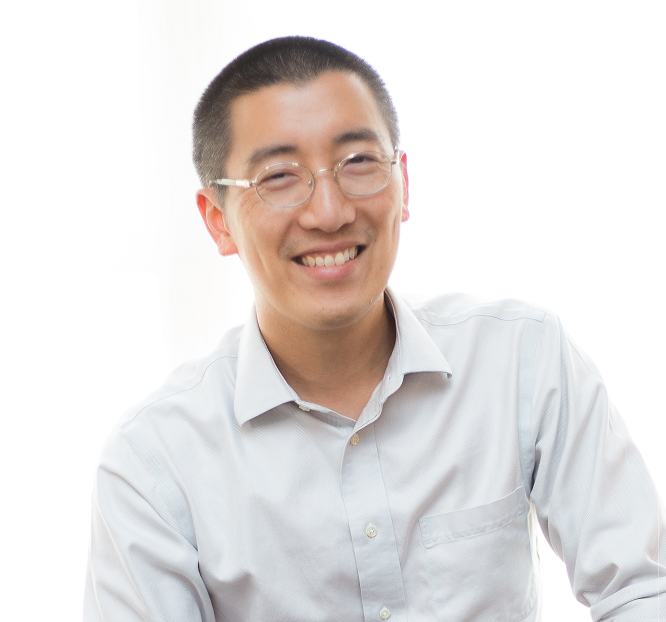
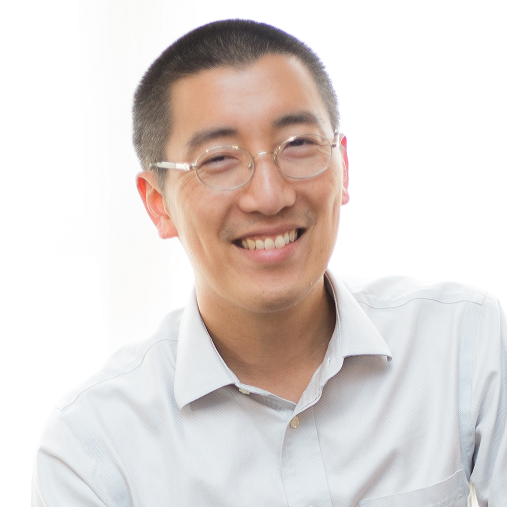
overhaul
all the changes to make this brad-ified

diff --git a/_includes/author.html b/_includes/author.html
@@ -23,7 +23,7 @@
                 ><span class="icon-twitter">Tweet</span>
             </a>
 
-            <a
+            <!-- <a
                 class="facebook"
                 href="javascript:void(0)"
                 onclick="window.open('https://facebook.com/sharer/sharer.php?u='+encodeURIComponent(location.href), 'facebook-share-dialog', 'width=626,height=436'); return false;"
@@ -31,7 +31,7 @@
                 <svg class="icon icon-facebook">
                     <use xlink:href="#icon-facebook"></use></svg
                 ><span class="icon-facebook-rect">Share</span>
-            </a>
+            </a> -->
 
             <!-- <a class="linkedin" href="https://www.linkedin.com/shareArticle?mini=true&amp;url={{ site.url }}{{ page.url }}&amp;title={{ page.title }}&amp;summary={{ page.description }}&amp;source={{ site.url }}" target="_blank">
                 <svg class="icon icon-linkedin"><use xlink:href="#icon-linkedin"></use></svg><span class="icon-linkedin">Share</span>

diff --git a/_includes/footer.html b/_includes/footer.html
@@ -1,15 +1,9 @@
 <footer class="footer-main">
     {{ site.name }} © {{ site.time | date: '%Y' }}
 
-    <a class="link" href="{{ site.url }}/feed.xml" target="_blank">
+    <!-- <a class="link" href="{{ site.url }}/feed.xml" target="_blank">
         <svg class="icon icon-rss">
             <use xlink:href="#icon-rss"></use>
         </svg>
-    </a>
-
-    <p class="extra">
-        <a class="link" href="https://github.com/sergiokopplin/indigo">Indigo theme</a>
-        by
-        <a class="link" href="https://github.com/sergiokopplin/indigo">Kopplin</a>
-    </p>
+    </a> -->
 </footer>

diff --git a/_includes/social-links.html b/_includes/social-links.html
@@ -53,12 +53,6 @@
         </a>
     {% endif %}
 
-    {% if site.github %}
-        <a class="link" data-title="github.com/{{ site.github }}" href="https://github.com/{{ site.github }}" target="_blank">
-            <svg class="icon icon-github"><use xlink:href="#icon-github"></use></svg>
-        </a>
-    {% endif %}
-
     {% if site.gitlab %}
         <a class="link" data-title="gitlab.com/{{ site.gitlab }}" href="https://gitlab.com/{{ site.gitlab }}" target="_blank">
             <svg class="icon icon-gitlab"><use xlink:href="#icon-gitlab"></use></svg>

diff --git a/_sass/base/variables.sass b/_sass/base/variables.sass
@@ -3,8 +3,8 @@ $fontMonospace: "Consolas", Liberation Mono, Menlo, Courier, monospace
 
 $alpha: #666
 $beta: #222
-$gama: #aaa
-$delta: #4b0082
+$gama: #888
+$delta: #05A
 $epsilon: #ededed
 
 $mobile: "only screen and (max-width: 400px)"

diff --git a/_sass/pages/tags.sass b/_sass/pages/tags.sass
@@ -32,7 +32,7 @@
         border-radius: 3px
         font-size: 1.3rem
         background: $epsilon
-        color: $alpha
+        color: $beta
         letter-spacing: 1px
         margin: 0 0.5rem 1rem
         text-decoration: none

diff --git a/_sass/pages/post.sass b/_sass/pages/post.sass
@@ -26,7 +26,7 @@
         border-radius: 3px
         font-size: 1.1rem
         background: $epsilon
-        color: $alpha
+        color: $beta
         letter-spacing: 1px
         margin: 3px 1px
         text-decoration: none

diff --git a/_sass/components/header.sass b/_sass/components/header.sass
@@ -20,6 +20,9 @@
     > .title
         font-size: 4rem
         margin: 0 0 13px
+        font-family: 'Kreon'
+        letter-spacing: 2px 
+        font-weight: 500
 
     > .description
         font-size: 1.85rem

diff --git a/_includes/style.scss b/_includes/style.scss
@@ -4,6 +4,7 @@
 @import "base/syntax";
 @import "base/general";
 @import "base/helpers";
+@import "base/fonts";
 
 @import "pages/home-blog-projects";
 @import "pages/page";

diff --git a/_sass/base/fonts.sass b/_sass/base/fonts.sass
@@ -1,0 +1,1 @@
+@import url('https://fonts.googleapis.com/css2?family=Kreon&display=swap')

diff --git a/about.md b/about.md
@@ -2,45 +2,23 @@
 title: About
 layout: page
 ---
-![Profile Image]({% if site.external-image %}{{ site.picture }}{% else %}{{ site.url }}/{{ site.picture }}{% endif %})
+![Profile Image]({% if site.external-image %}{{ site.alt_picture }}{% else %}{{ site.url }}/{{ site.alt_picture }}{% endif %})
 
-<p>Lorem Lorem ipsum dolor sit amet, consectetur adipisicing elit, sed do eiusmod
-tempor incididunt ut labore et dolore magna aliqua. Ut enim ad minim veniam,
-quis nostrud exercitation ullamco laboris nisi ut aliquip ex ea commodo
-consequat. Duis aute irure dolor in reprehenderit in voluptate velit esse
-cillum dolore eu fugiat nulla pariatur. Excepteur sint occaecat cupidatat non
-proident, sunt in culpa qui officia deserunt mollit anim id est laborum.</p>
+<p>Brad is a Certified Public Accountant and civic leader in Huntsville, AL. He recieved his B.S.B.A. in accounting from Auburn Univesity and currently practices as a CPA with <a href="https://brandblackwell.com/">Brand Blackwell & Co.</a></p>
 
-<p>Lorem ipsum dolor sit amet, consectetur adipisicing elit, sed do eiusmod
-tempor incididunt ut labore et dolore magna aliqua. Ut enim ad minim veniam,
-quis nostrud exercitation ullamco laboris nisi ut aliquip ex ea commodo
-consequat. Duis aute irure dolor in reprehenderit in voluptate velit esse
-cillum dolore eu fugiat nulla pariatur. Excepteur sint occaecat cupidatat non
-proident, sunt in culpa qui officia deserunt mollit anim id est laborum.</p>
+<p>Brad is also a founding member of the <a href="http://bnialabama.com/bnicove/">Cove chapter of BNI</a>; is the Treasurer for Kinertia, the entity that curates <a href="http://tedxhuntsville.com/site/">TEDxHuntsville</a>; is Treasurer of <a href="http://www.rockethatch.org/">Rocket Hatch</a>; serves on Auburn University's <a href="http://harbert.auburn.edu/academics/departments/school-of-accountancy/">School of Accountancy Advisory Council</a>; and is a co-founder of <a href="https://rocketsgo.org/">Rocket City Scholarship Granting Organization</a>.</p>
 
-<h2>Skills</h2>
+<h2>Areas of Emphasis</h2>
 
 <ul class="skill-list">
-	<li>HTML - Jade - Haml - Erb</li>
-	<li>Responsive (Mobile First)</li>
-	<li>CSS (Stylus, Sass, Less)</li>
-	<li>Css Frameworks (Bootstrap, Foundation)</li>
-	<li>Javascript (Design Patterns, Testes)</li>
-	<li>NodeJS</li>
-	<li>AngularJS - ReactJS</li>
-	<li>Grunt - Gulp - Yeoman</li>
-	<li>Git</li>
-	<li>PHP</li>
-	<li>Python</li>
-	<li>MySQL - MongoDB</li>
-	<li>Scrum and Kanban</li>
-	<li>TDD e Continuous Integration</li>
+	<li>Business, Individual, and not-for-profit taxation</li>
+	<li>Small/local business and start-up/entrepreneurship consulting</li>
+	<li>QuickBooks Online Certified ProAdvisor</li>
 </ul>
 
-<h2>Projects</h2>
+<h2>Professional Organizations</h2>
 
 <ul>
-	<li><a href="https://github.com/">Lorem Lorem</a></li>
-	<li><a href="https://github.com/">Ipsum Dolor</a></li>
-	<li><a href="https://github.com/">Dolor Lorem</a></li>
+	<li><a href="http://www.aicpa.org/">American Institute of Certified Public Accountants</a></li>
+	<li><a href="http://www.ascpa.org/">Alabama Society of Certified Public Accountants</a></li>
 </ul>

diff --git a/_posts/2016-01-23-food-truck.md b/_posts/2016-01-23-food-truck.md
@@ -1,0 +1,18 @@
+---
+title: "Ye Olde Timey Foode Truck"
+layout: post
+date: 2016-01-23 22:10
+tag: extra
+image: https://www.pointfranchise.co.uk/images/zoom/articles/food-truck-franchises.jpg
+headerImage: true
+projects: true
+hidden: true # don't count this post in blog pagination
+description: "Here is an idea for a new project."
+category: project
+author: bradgarland
+externalLink: false
+---
+
+# Header
+
+You can use markdown to build out these pages any way you like. Essentially blog posts and projects are the same they are just tagged and listed as different groups.

diff --git a/_posts/2015-02-24-markdown-elements.md b/_posts/2015-02-24-markdown-elements.md
@@ -1,5 +1,5 @@
 ---
-title: "Markdown Extra Components"
+title: "Markdown Elements"
 layout: post
 date: 2016-02-24 22:48
 image: /assets/images/markdown.jpg
